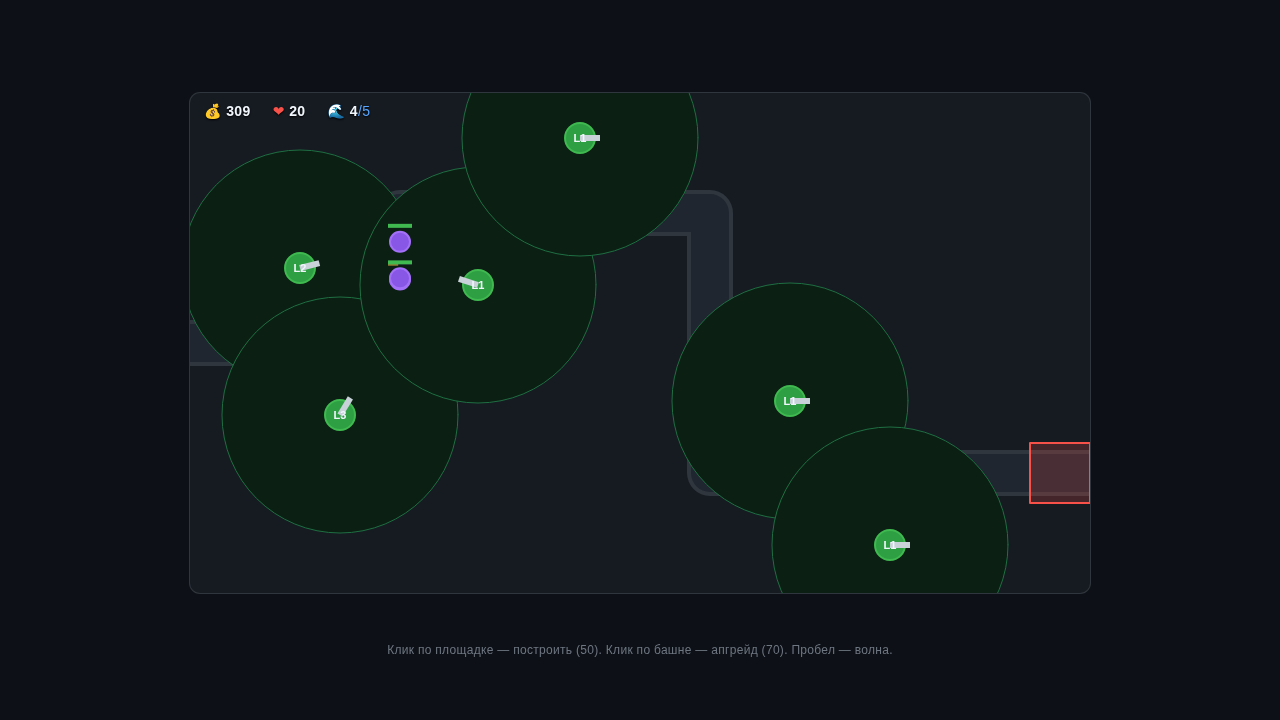
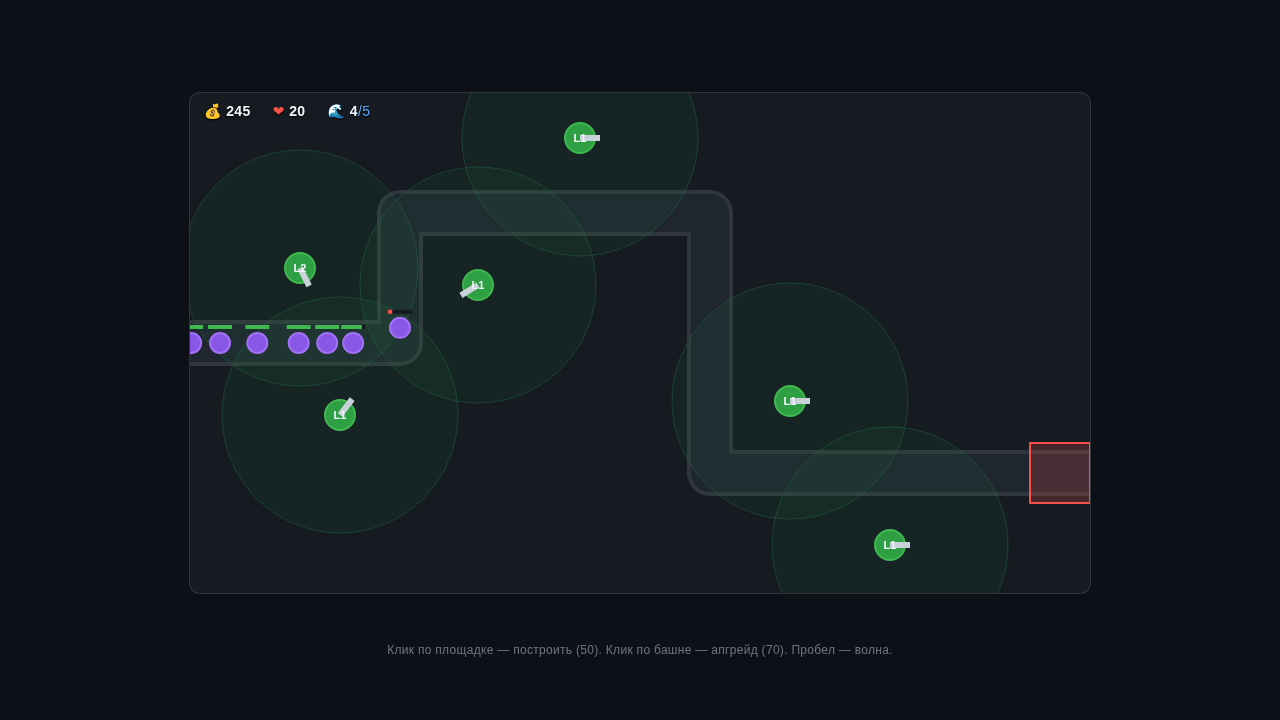
tower range circle: transparent fill instead of solid

Changed region(s): [[0.125, 0.2444, 0.5312, 0.5194], [0.5312, 0.3972, 0.7812, 0.7028], [0.2188, 0.3667, 0.25, 0.3972]]

diff --git a/index.html b/index.html
@@ -256,9 +256,9 @@ function draw() {
 
   // башни
   for (const t of state.towers) {
-    ctx.fillStyle = "#0b1f12";
+    ctx.fillStyle = "rgba(46,160,67,0.07)";
     ctx.beginPath(); ctx.arc(t.x, t.y, t.range, 0, Math.PI * 2); ctx.fill();
-    ctx.strokeStyle = "#1f6f43"; ctx.lineWidth = 1; ctx.stroke();
+    ctx.strokeStyle = "rgba(31,111,67,0.45)"; ctx.lineWidth = 1; ctx.stroke();
 
     ctx.fillStyle = "#2ea043";
     ctx.beginPath(); ctx.arc(t.x, t.y, 15, 0, Math.PI * 2); ctx.fill();
